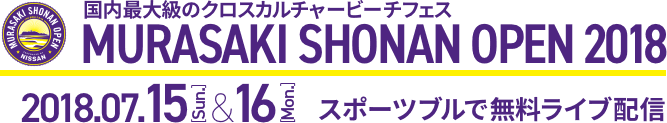
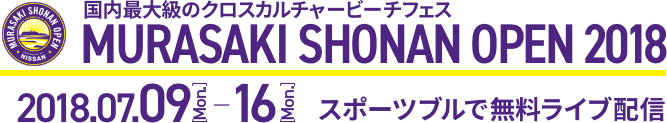
期日を変更

Changed region(s): [[0.0, 0.6585, 0.3898, 1.0], [0.3598, 0.6829, 0.3898, 0.7073]]

diff --git a/app/routes/murasaki-shonan-open-2018.router.php b/app/routes/murasaki-shonan-open-2018.router.php
@@ -9,7 +9,7 @@ $app->group('/live/murasaki-shonan-open-2018',  function () use($app) {
     'title'              => 'MURASAKI SHONAN OPEN 2018 ライブ配信',
     'og_title'           => 'MURASAKI SHONAN OPEN 2018 ライブ配信 | '.$app->model->property('title'),
     'og_url'             => $app->model->property('site_url').'murasaki-shonan-open-2018/',
-    'og_image'           => $app->model->property('site_url').'assets/images/live/murasaki-shonan-open-2018/ogp.png',
+    'og_image'           => $app->model->property('site_url').'assets/images/live/murasaki-shonan-open-2018/ogp02.png',
     'og_description'     => 'MURASAKI SHONAN OPEN 2018 ライブ配信をスポーツブルで無料ライブ配信。スポーツブル(スポブル)は、インターネットスポーツメディアです。数十社の良質なスポーツ媒体と連携し、話題のスポーツニュース記事、動画をいち早くお届けします。また、ここでしか見ることの出来ないオリジナル記事や、番組を配信しています。スマートフォンはもちろん、PC、タブレットでもお楽しみいただけます。',
     'keywords'           => 'ラグビー,秩父宮,NEC グリーンロケッツ,ワラターズ,サントリーサンゴリアス,ブランビーズ,スポブル,ライブ配信,スポーツ,メディア,クレイジー,アスリート,ニュース,動画,sports,media,crazy',
     'category'           => $category,
